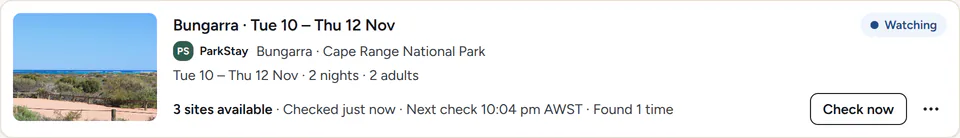
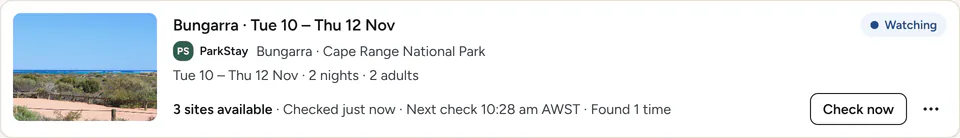
site: retake the website's screenshots (Stay type chip, ParkStay's photos, the map)
Taken locally with npm run site:screenshots: the availability image is now
688 x 419. The Screenshots workflow now retakes only the docs' images:
GitHub's runners could not load ParkStay's photos, which the website's
screenshots need.

diff --git a/site/index.html b/site/index.html
@@ -198,7 +198,7 @@
                 assets/screens/place-availability.webp    2x
               "
               width="688"
-              height="415"
+              height="419"
               loading="lazy"
               alt="Bungarra’s availability for 2 nights: campsites 3, 4 and 5, each a 12 m by 7 m reverse-in gravel site for 1 to 6 people and 3 vehicles, free on both nights at $30 a night."
             />

diff --git a/CLAUDE.md b/CLAUDE.md
@@ -289,7 +289,7 @@ Rules:
   | Providers (`BUILT_IN_PROVIDERS`) | "Different providers, one app": one row per shipped provider, showing its manifest name, monogram and brand colour, and what WA Stay does with it |
   | Site Sniper, Bookings (marked "Soon") | "Coming next". When a "Soon" pill goes, move the feature out of this section and into its own |
   | Settings, accounts, updates, platforms, data | "Questions", and the two download sections |
-- **Screenshots:** when a screen they show changes, retake them with `npm run site:screenshots` (`tests/site/`; it needs a Mapbox token), or with the repository's token through the **Screenshots** workflow (`.github/workflows/screenshots.yml`: run it from the Actions tab or label a pull request `screenshots`; it uploads the docs' and site's images as the `screenshots` artifact and pushes nothing). Then update the images' sizes and alt text in `site/index.html`; the site test checks the sizes.
+- **Screenshots:** when a screen they show changes, retake them with `npm run site:screenshots` (`tests/site/`; it needs a Mapbox token, and a machine that can load ParkStay's photos: GitHub's runners could not). The docs' screenshots can also be retaken with the repository's token by the **Screenshots** workflow (`.github/workflows/screenshots.yml`: run it from the Actions tab or label a pull request `screenshots`; it uploads `docs/images/` as the `screenshots` artifact and pushes nothing). Then update the images' sizes and alt text in `site/index.html`; the site test checks the sizes.
 - **Copy:**
   - plain and non-technical, never the architecture;
   - provider-neutral: a provider is named only in its providers row and in the independence notice;

diff --git a/docs/website.md b/docs/website.md
@@ -99,10 +99,11 @@ its photos and copy to a person's own use, so they appear only in the app.
 
 `npm run site:screenshots` rebuilds and retakes them; it needs a Mapbox token. Retake them when a
 screen they show changes, then update each image's size and alt text in `site/index.html`.
-Without a token at hand, the **Screenshots** workflow (`.github/workflows/screenshots.yml`)
-retakes these and the documentation's screenshots with the repository's token: run it from the
-Actions tab, or add the `screenshots` label to a pull request, then review the images in its
-`screenshots` artifact and commit them. It pushes nothing itself.
+Take them on your own machine: they load ParkStay's photos live, and GitHub's runners could not
+load them. The documentation's screenshots, which show no photos, can also be retaken with the
+repository's token by the **Screenshots** workflow (`.github/workflows/screenshots.yml`): run it
+from the Actions tab, or add the `screenshots` label to a pull request, then review the images
+in its `screenshots` artifact and commit them. It pushes nothing itself.
 
 ## Keeping it in step with the app
 
